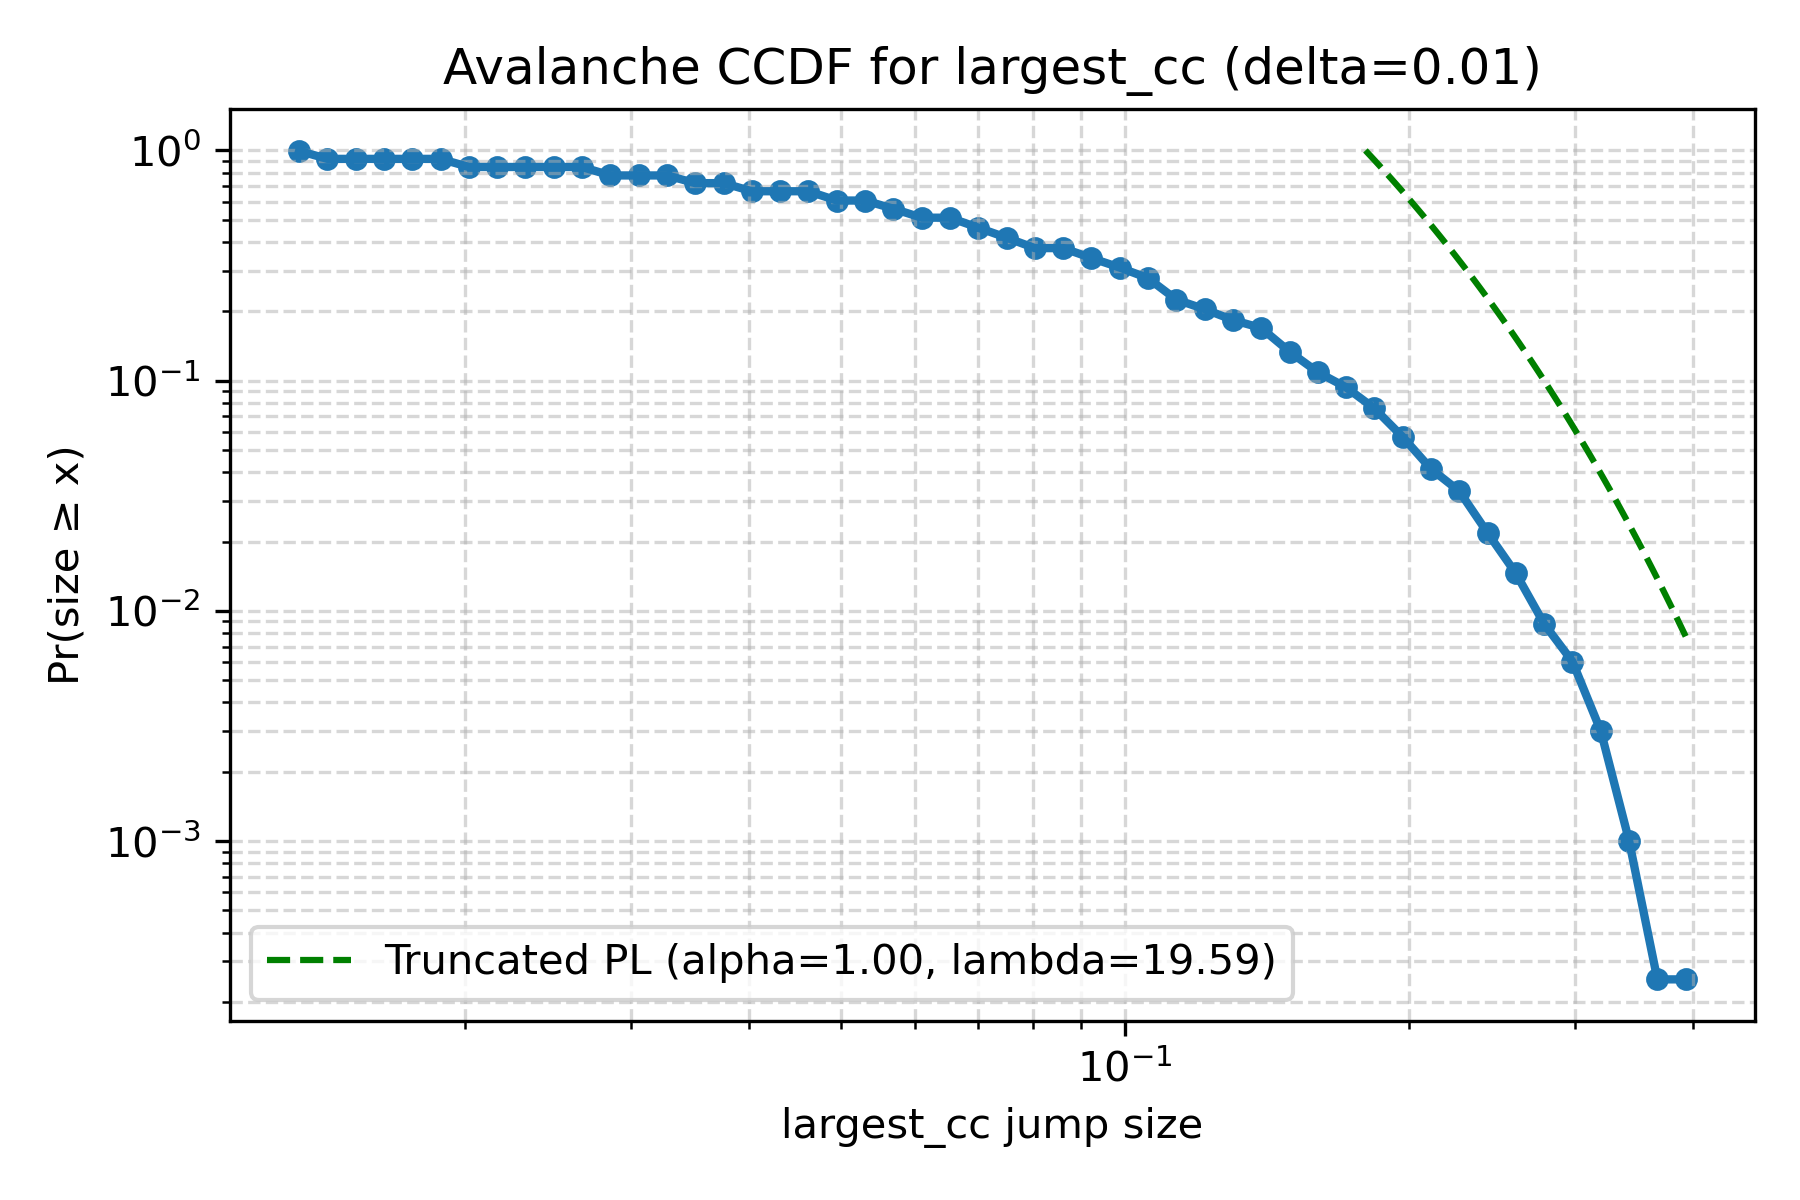
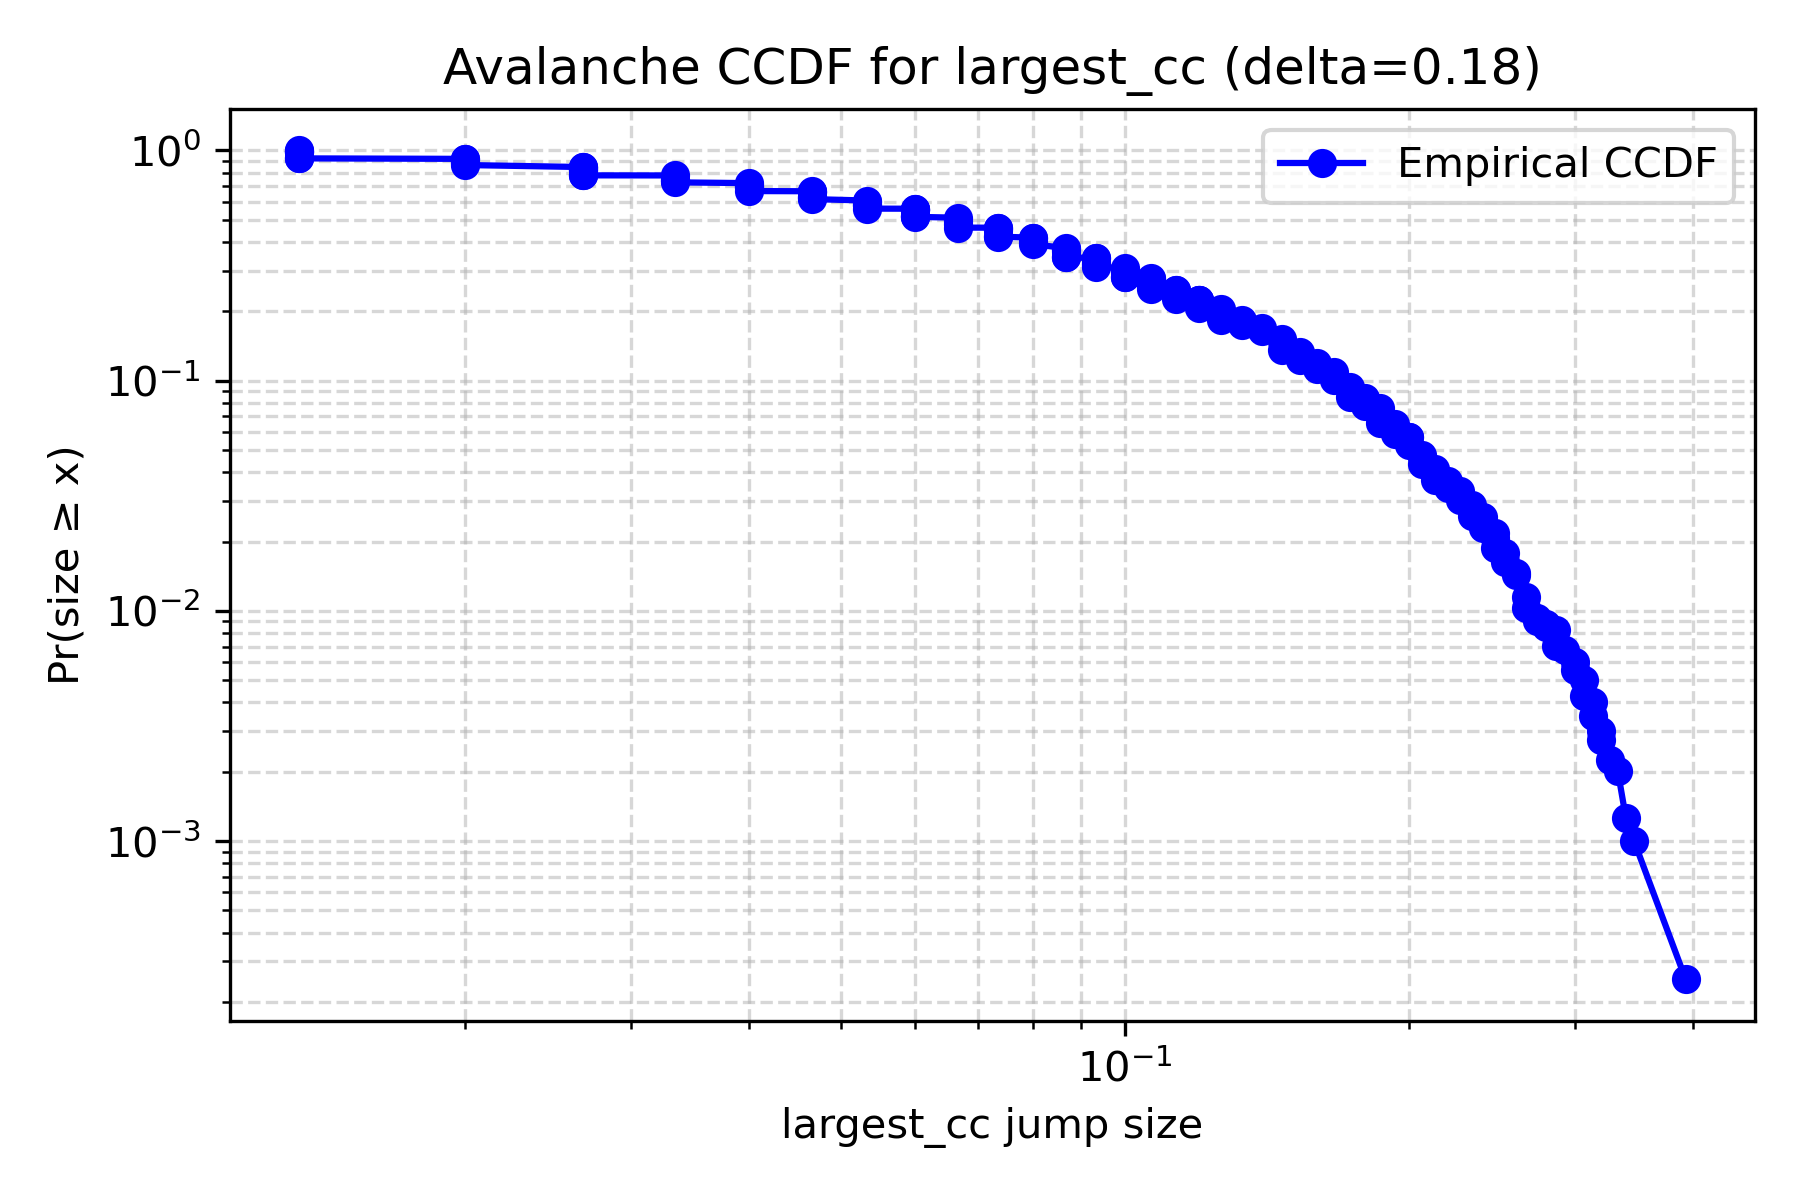
SA

diff --git a/analysis/SA_francesco.py b/analysis/SA_francesco.py
@@ -1,0 +1,135 @@
+from mesa.batchrunner import FixedBatchRunner, BatchRunner
+from SALib.sample import saltelli
+from SALib.analyze import sobol
+import pandas as pd
+import numpy as np
+import matplotlib.pyplot as plt
+from itertools import combinations
+import sys
+import os
+project_root = os.path.abspath(os.path.join(os.path.dirname(__file__), '..'))
+sys.path.append(project_root)
+from model.core import RecyclingModel
+
+# Create output directory
+plot_dir = os.path.join(project_root, 'figures/SA')
+data_dir = os.path.join(project_root, 'data')
+
+# ------------------ Define problem for sensitivity analysis ------------------
+problem = {
+    'num_vars': 3,
+    'names': ['delta', 'alpha', 'lambda_param'],
+    'bounds': [[0.1, 1.0], [0.1, 1.0], [0.1, 5.0]]
+}
+
+# ------------------ OFAT Sensitivity ------------------
+replicates = 10
+max_steps = 100
+samples_per_param = 10
+
+data_ofat = {}
+
+for i, var in enumerate(problem['names']):
+    values = np.linspace(*problem['bounds'][i], num=samples_per_param)
+
+    batch = FixedBatchRunner(RecyclingModel,
+                             max_steps=max_steps,
+                             iterations=replicates,
+                             parameters_list=[{var: val} for val in values],
+                             fixed_parameters=None,
+                             model_reporters={"Recycle_Rate": lambda m: np.mean([h.s for h in m.households.values()])},
+                             display_progress=True)
+
+    batch.run_all()
+    df = batch.get_model_vars_dataframe()
+    df[var] = np.repeat(values, replicates)
+    df.to_csv(os.path.join(data_dir, f"OFAT_{var}.csv"), index=False)
+    data_ofat[var] = df
+
+
+def plot_param_var_conf(ax, df, var, param):
+    x = df.groupby(var).mean().reset_index()[var]
+    y = df.groupby(var).mean()[param]
+    replicates = df.groupby(var)[param].count()
+    err = 1.96 * df.groupby(var)[param].std() / np.sqrt(replicates)
+
+    ax.plot(x, y, c='k')
+    ax.fill_between(x, y - err, y + err)
+    ax.set_xlabel(var)
+    ax.set_ylabel(param)
+
+
+def plot_all_ofat(data, param):
+    f, axs = plt.subplots(3, figsize=(8, 12))
+    for i, var in enumerate(problem['names']):
+        plot_param_var_conf(axs[i], data[var], var, param)
+    plt.tight_layout()
+    plt.savefig(os.path.join(plot_dir, f"OFAT_{param}.png"))
+    plt.close()
+
+
+plot_all_ofat(data_ofat, "Recycle_Rate")
+
+# ------------------ Sobol Sensitivity ------------------
+distinct_samples = 128  # Needs to be a power of 2 for Saltelli
+replicates = 10
+param_values = saltelli.sample(problem, distinct_samples)
+
+data_sobol = pd.DataFrame(columns=problem['names'] + ["Recycle_Rate", "Run"])
+
+batch = BatchRunner(RecyclingModel,
+                    max_steps=max_steps,
+                    variable_parameters={name: [] for name in problem['names']},
+                    model_reporters={"Recycle_Rate": lambda m: np.mean([h.s for h in m.households.values()])})
+
+total_runs = replicates * len(param_values)
+
+for r in range(replicates):
+    for i, vals in enumerate(param_values):
+        run_index = r * len(param_values) + i
+
+        vals = list(vals)
+        var_dict = {k: v for k, v in zip(problem['names'], vals)}
+        batch.run_iteration(var_dict, tuple(vals), run_index)
+        result_df = batch.get_model_vars_dataframe()
+        result = result_df.iloc[-1] 
+        row = dict(zip(problem['names'], vals))
+        row.update({"Recycle_Rate": result["Recycle_Rate"], "Run": run_index})
+        data_sobol.loc[run_index] = row
+
+        if run_index % (total_runs // 100) == 0 or run_index == total_runs - 1:
+            percent = 100 * (run_index + 1) / total_runs
+            print(f"{percent:.0f}% done")
+
+    data_sobol.to_csv(os.path.join(data_dir, "Sobol.csv"), index=False)
+
+# Run Sobol analysis
+Si = sobol.analyze(problem, data_sobol['Recycle_Rate'].values, print_to_console=True)
+
+
+def plot_index(s, params, i, title=''):
+    if i == '2':
+        p = len(params)
+        params = list(combinations(params, 2))
+        indices = s['S' + i].reshape((p ** 2))
+        indices = indices[~np.isnan(indices)]
+        errors = s['S' + i + '_conf'].reshape((p ** 2))
+        errors = errors[~np.isnan(errors)]
+    else:
+        indices = s['S' + i]
+        errors = s['S' + i + '_conf']
+        plt.figure()
+
+    l = len(indices)
+    plt.title(title)
+    plt.ylim([-0.2, l - 0.8])
+    plt.yticks(range(l), params)
+    plt.errorbar(indices, range(l), xerr=errors, linestyle='None', marker='o')
+    plt.axvline(0, c='k')
+    plt.tight_layout()
+    plt.savefig(os.path.join(plot_dir, f"Sobol_order_{i}.png"))
+    plt.close()
+
+
+for idx in ('1', '2', 'T'):
+    plot_index(Si, problem['names'], idx, title=f"Sobol Order {idx} Sensitivity: Recycle Rate")

diff --git a/analysis/multiple_outputs_analysis.py b/analysis/multiple_outputs_analysis.py
@@ -130,10 +130,6 @@ for key, data in metrics.items():
     bins = np.logspace(np.log10(min_size), np.log10(max_size), num=50)
     ccdf_smooth = np.array([np.mean(data >= b) for b in bins])
 
-    plt.figure(figsize=(6, 4))
-    plt.loglog(bins, ccdf_smooth, linestyle='-', linewidth=2)
-    plt.scatter(bins, ccdf_smooth, s=20)
-
     print(f"Metric: {key}")
     print(f"  Total avalanches detected: {len(data)}")
     print(f"  Mean size: {np.mean(data):.4f}")
@@ -154,27 +150,34 @@ for key, data in metrics.items():
     print(f"  KS (Power law): {ks_pl:.4f}")
     print(f"  KS (Truncated power law): {ks_trunc:.4f}")
 
-    x_fit = np.linspace(fit.xmin, max_size, 100)
-    if R_cut < 0 or p_cut < 0.05:
-        truncated_fit = fit.truncated_power_law
-        y_fit = truncated_fit.ccdf(x_fit)
-        plt.loglog(x_fit, y_fit, 'g--', label=f'Truncated PL (alpha={truncated_fit.alpha:.2f}, lambda={truncated_fit.Lambda:0.2f})')
-        print(f"  Truncated PL (alpha={truncated_fit.alpha:.2f}, lambda={truncated_fit.Lambda:0.2f})")
+    # 1) define your x-grid from xmin to xmax
+    x_emp = np.logspace(np.log10(fit.xmin), np.log10(max_size), num=50)
 
+    # 2) compute empirical CCDF on that grid
+    ccdf_emp = np.array([np.mean(data >= x) for x in x_emp])
+
+    # 3) plot the empirical tail yourself
+    fig, ax = plt.subplots(figsize=(6,4))
+    ax.loglog(x_emp, ccdf_emp, 'o-', label='Empirical CCDF (tail)', markersize=4)
+
+    # 4) overlay truncated PL if it’s the preferred model
+    if R_cut > 0 and p_cut >= 0.05:
+        tp = fit.truncated_power_law
+        y_trunc = tp.ccdf(x_emp)
+        ax.loglog(x_emp, y_trunc, '--', label=f'Trunc. PL, α={tp.alpha:.2f}, λ={tp.Lambda:.2f}')
+
+    # 5) overlay pure PL if it’s preferred
     if R_exp > 0 or p_exp >= 0.05:
-        ccdf_fit = (x_fit / fit.xmin) ** (-fit.alpha + 1)
-        ccdf_fit *= ccdf_smooth[np.argmin(np.abs(bins - fit.xmin))]
-        plt.loglog(x_fit, ccdf_fit, 'r--', label=f'Power-law fit (alpha={fit.alpha:.2f})')
+        # note power_law.ccdf() starts at 1.0 at xmin
+        pl = fit.power_law
+        y_pl = pl.ccdf(x_emp)
+        ax.loglog(x_emp, y_pl, '-.', label=f'PL fit, α={pl.alpha:.2f}')
 
-    plt.xlabel(f'{key} jump size')
-    plt.ylabel('Pr(size ≥ x)')
-    plt.title(f'Avalanche CCDF for {key} (delta={delta})')
-    plt.grid(True, which='both', ls='--', alpha=0.5)
-    plt.legend()
+    ax.set_xlabel(f'{key} jump size')
+    ax.set_ylabel('Pr(size ≥ x)')
+    ax.set_title(f'Avalanche CCDF for {key} (xmin={fit.xmin:.2f})')
+    ax.grid(True, which='both', ls='--', alpha=0.5)
+    ax.legend()
     plt.tight_layout()
     plt.savefig(os.path.join(fig_dir, f"avalanches_ccdf_{key}.png"), dpi=300)
     plt.close()
-
-    # To do:
-    # Only print from xmin to xmax
-    # Why green line is printed always above?
